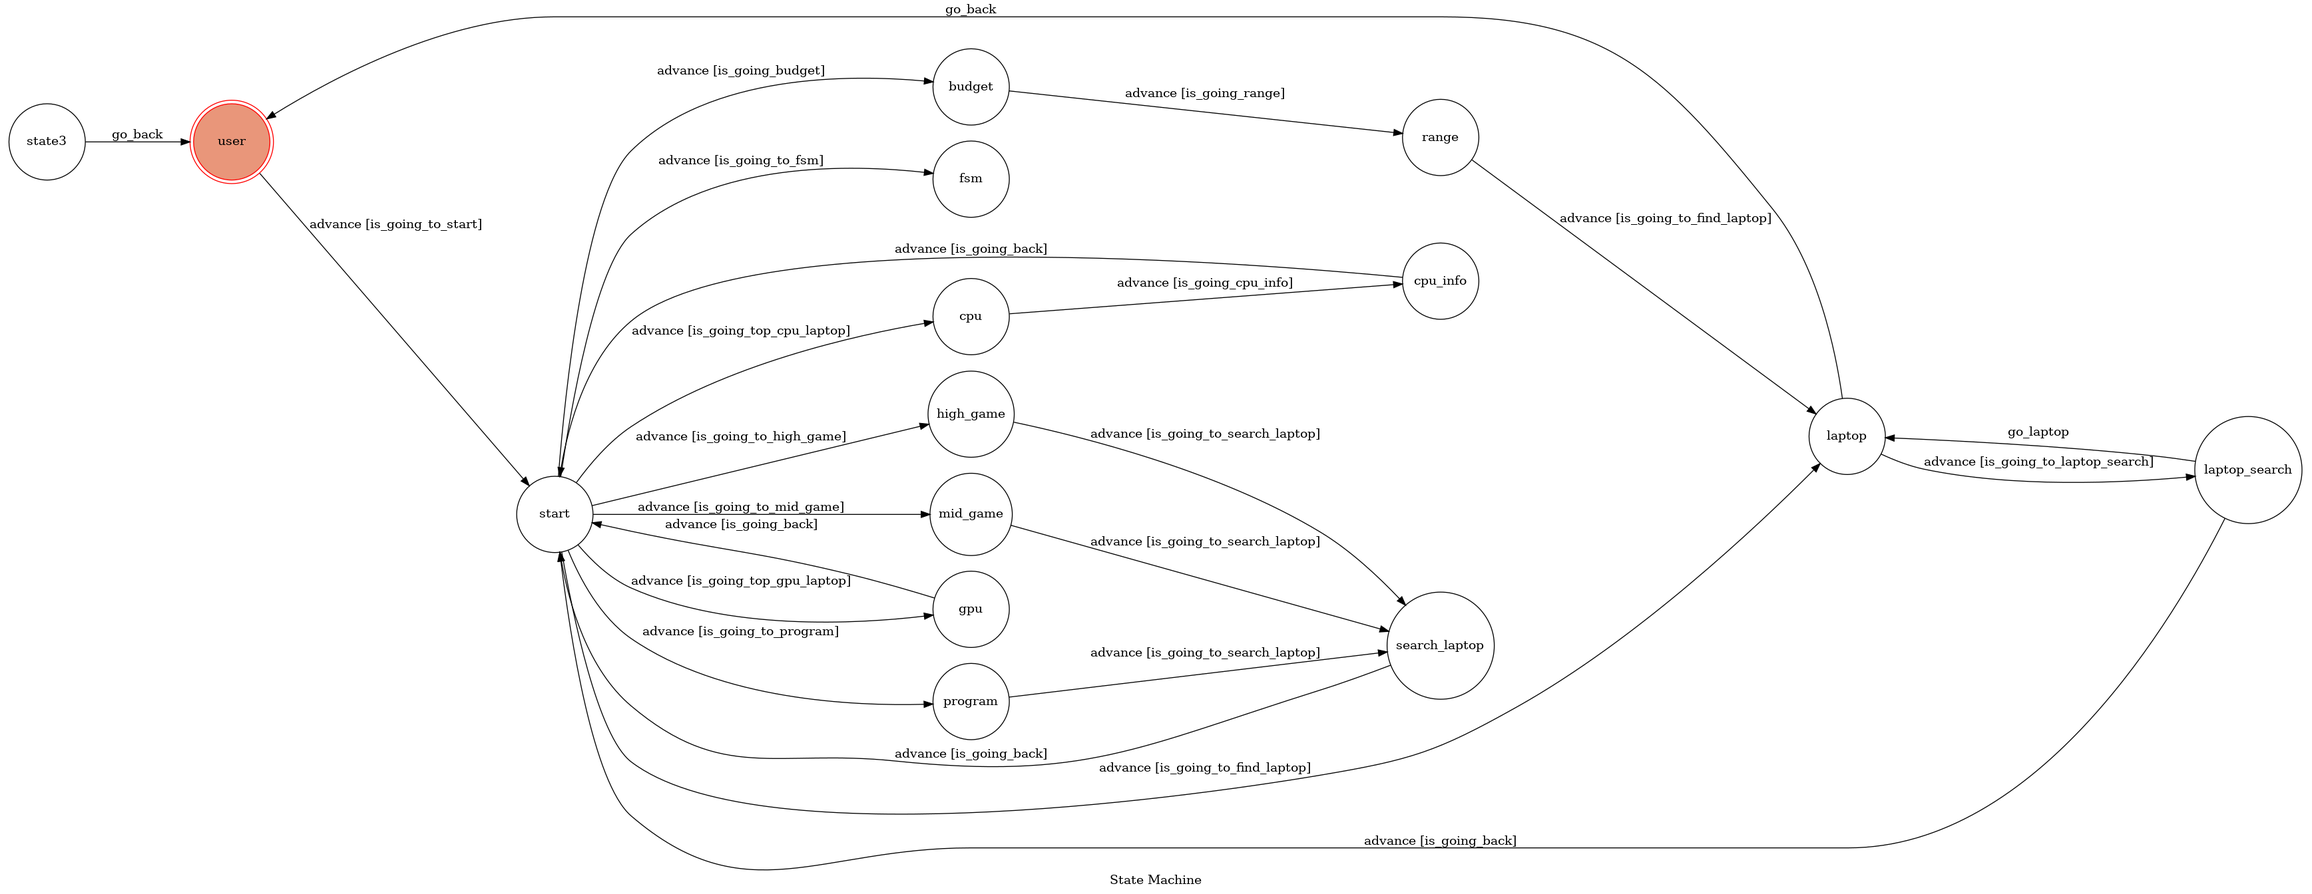
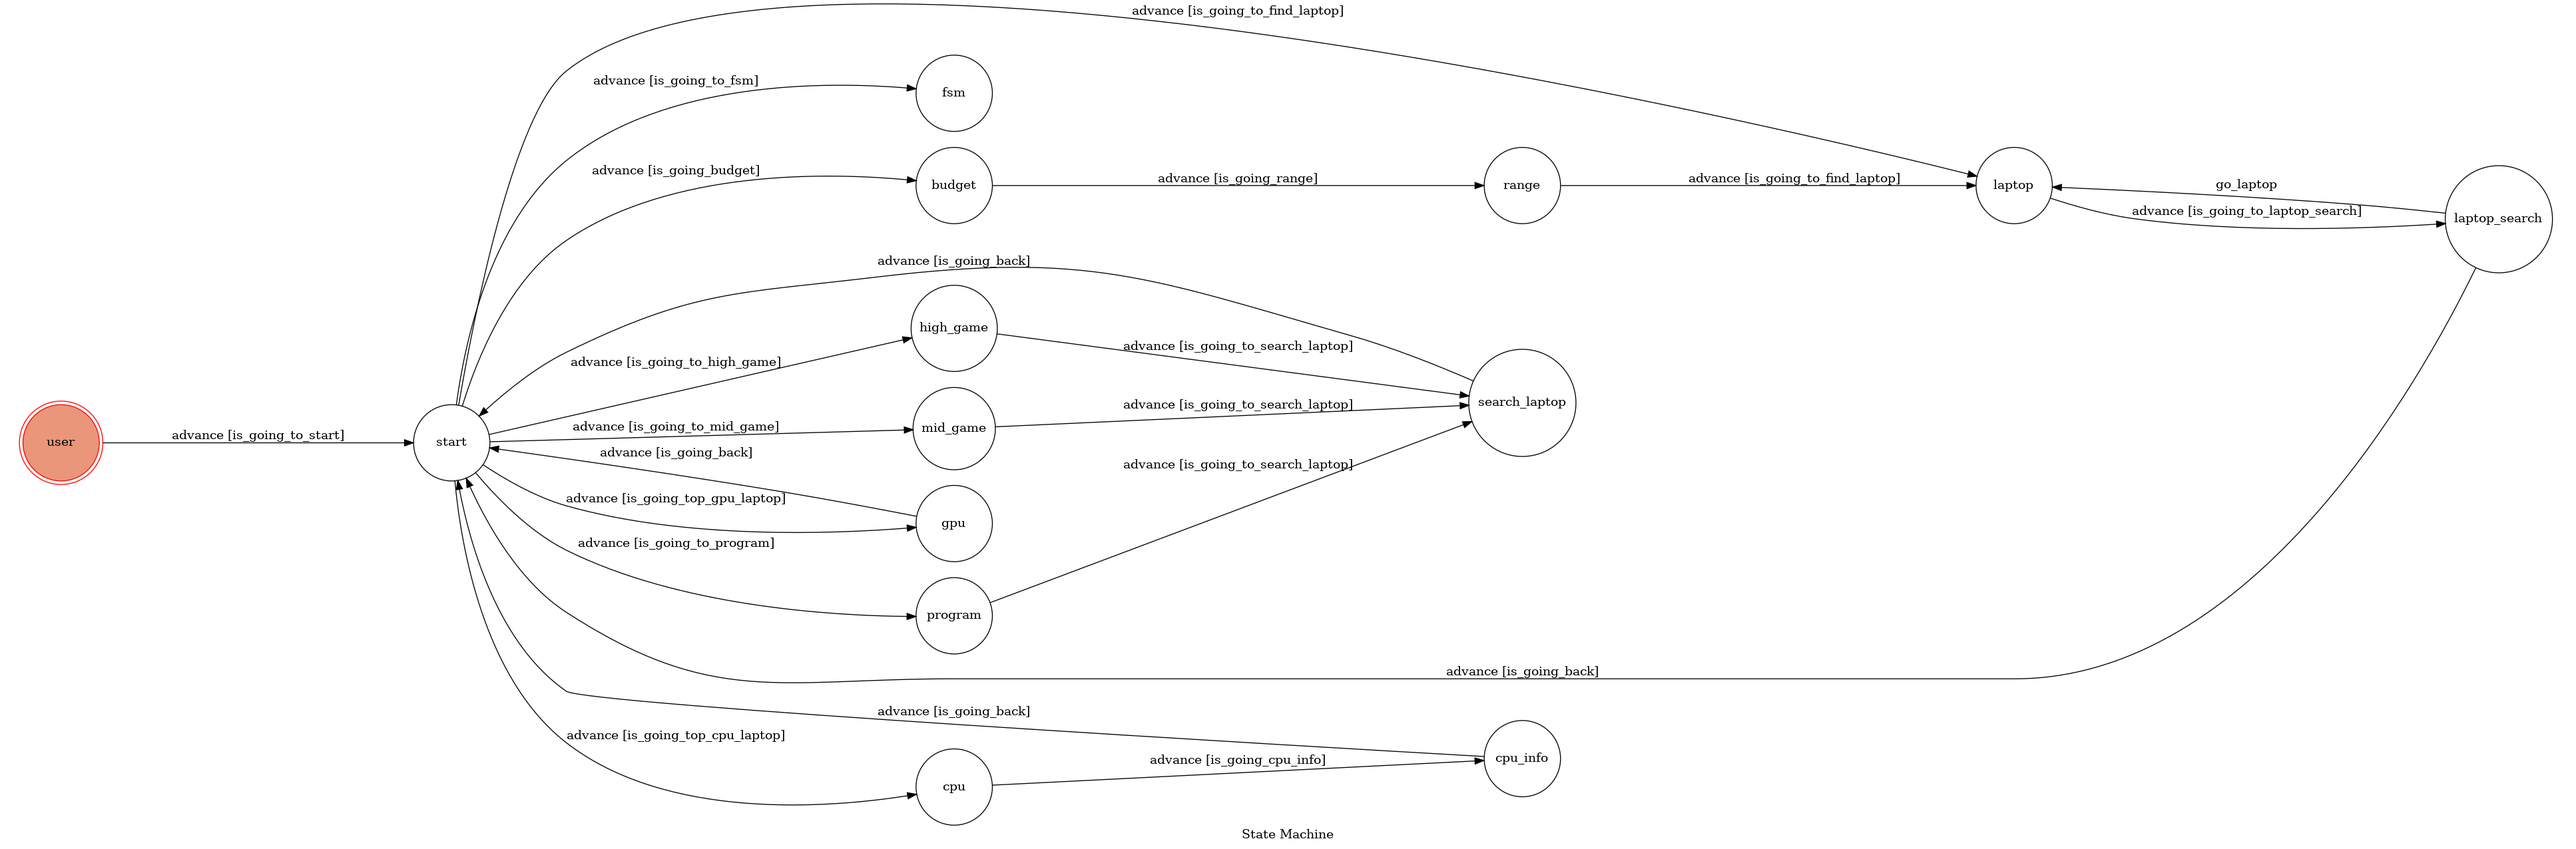
added to heroku

diff --git a/utils.py b/utils.py
@@ -151,6 +151,25 @@ def send_button_carousel(id):
                             text='program'
                         )
                     ]
+                ),
+                  CarouselColumn(
+                    thumbnail_image_url='https://www.reviewsontop.com/wp-content/uploads/2020/03/X5TyA8uvkGXoNyjFzxcowS-1200-80.jpg',
+                    title='Shopping for Laptop',
+                    text='Choose a Site to begin',
+                    actions=[
+                        MessageTemplateAction(
+                            label='Pchome',
+                            text='high game'
+                        ),
+                        MessageTemplateAction(
+                            label='CoolPc',
+                            text='mid game'
+                        ),
+                        MessageTemplateAction(
+                            label='Apple',
+                            text='program'
+                        )
+                    ]
                 )
             ]
         )

diff --git a/app.py b/app.py
@@ -108,9 +108,6 @@ machine = TocMachine(
             "dest": "fsm",
             "conditions": "is_going_to_fsm",
         },
-        {"trigger": "go_back",
-         "source": ["laptop","state3"],
-          "dest": "user"},
         {"trigger": "go_laptop",
          "source": ["laptop_search"],
           "dest": "laptop"},
